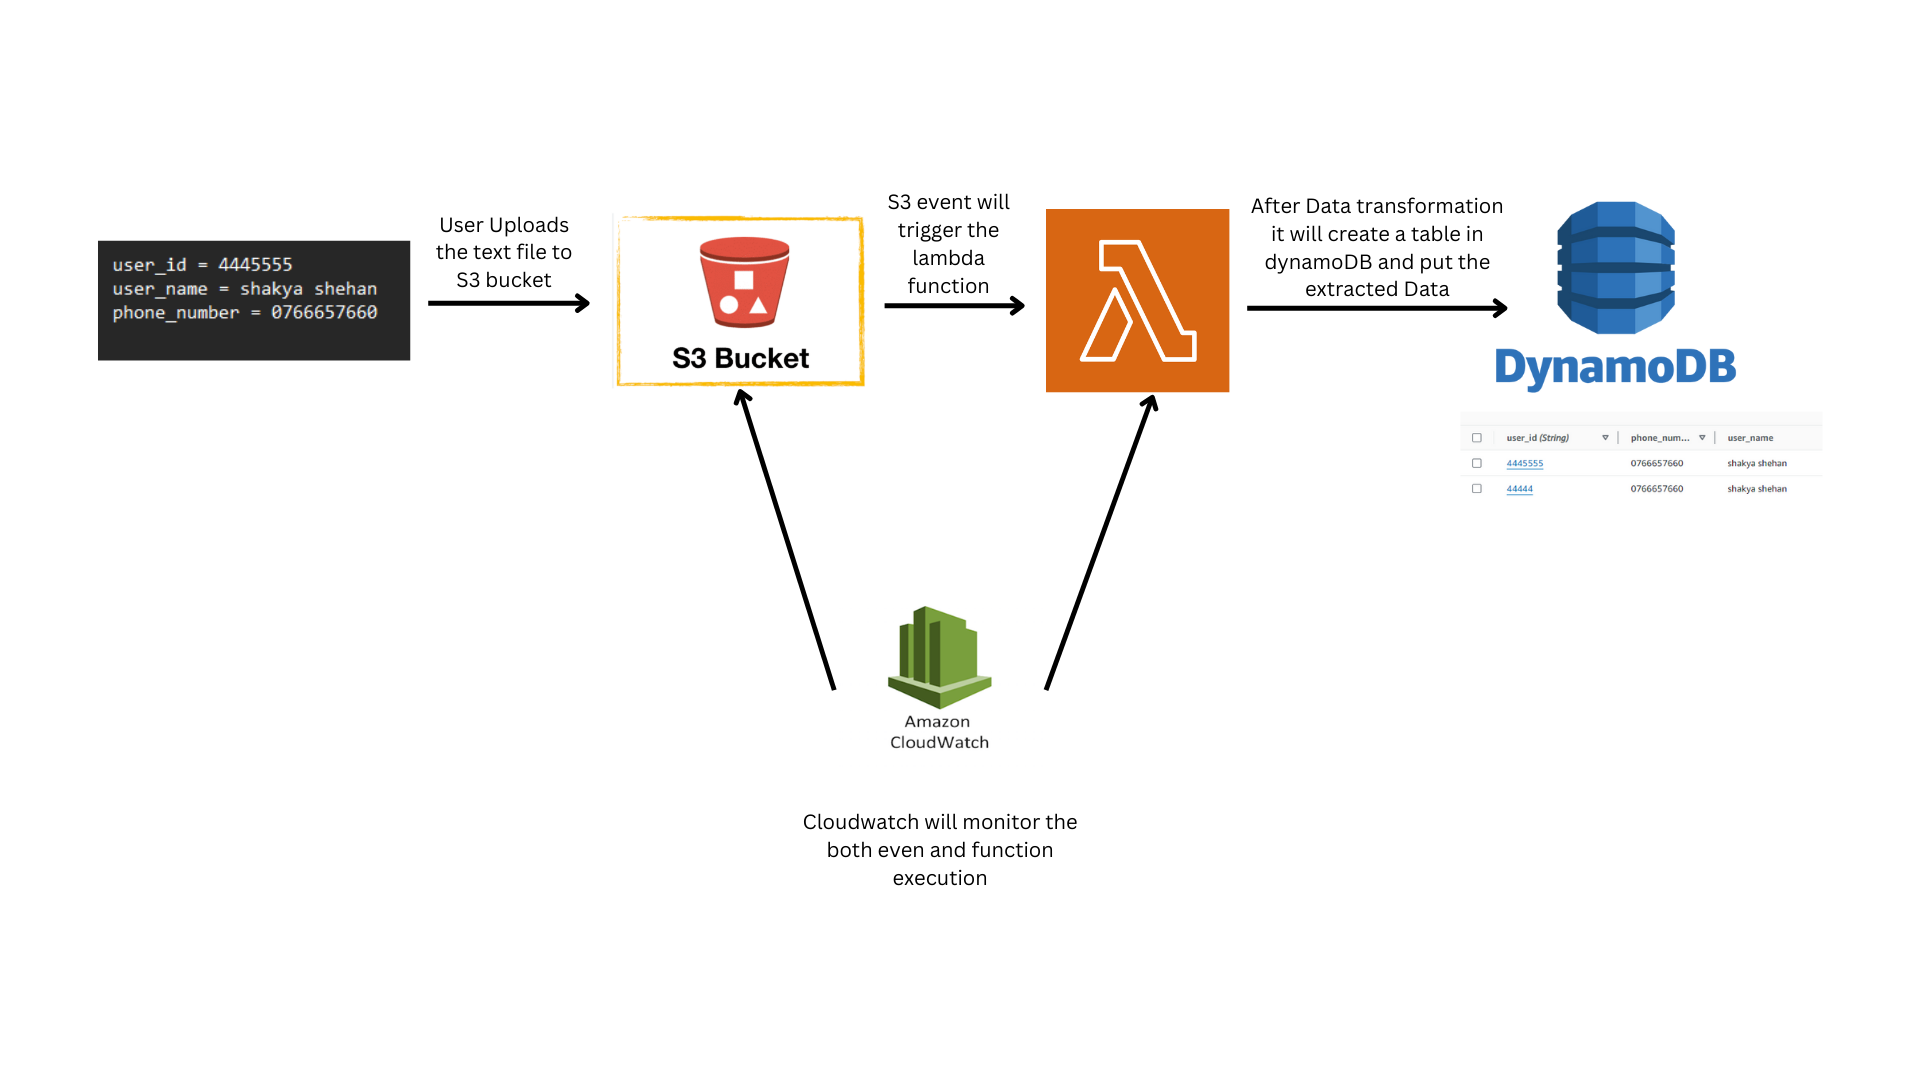
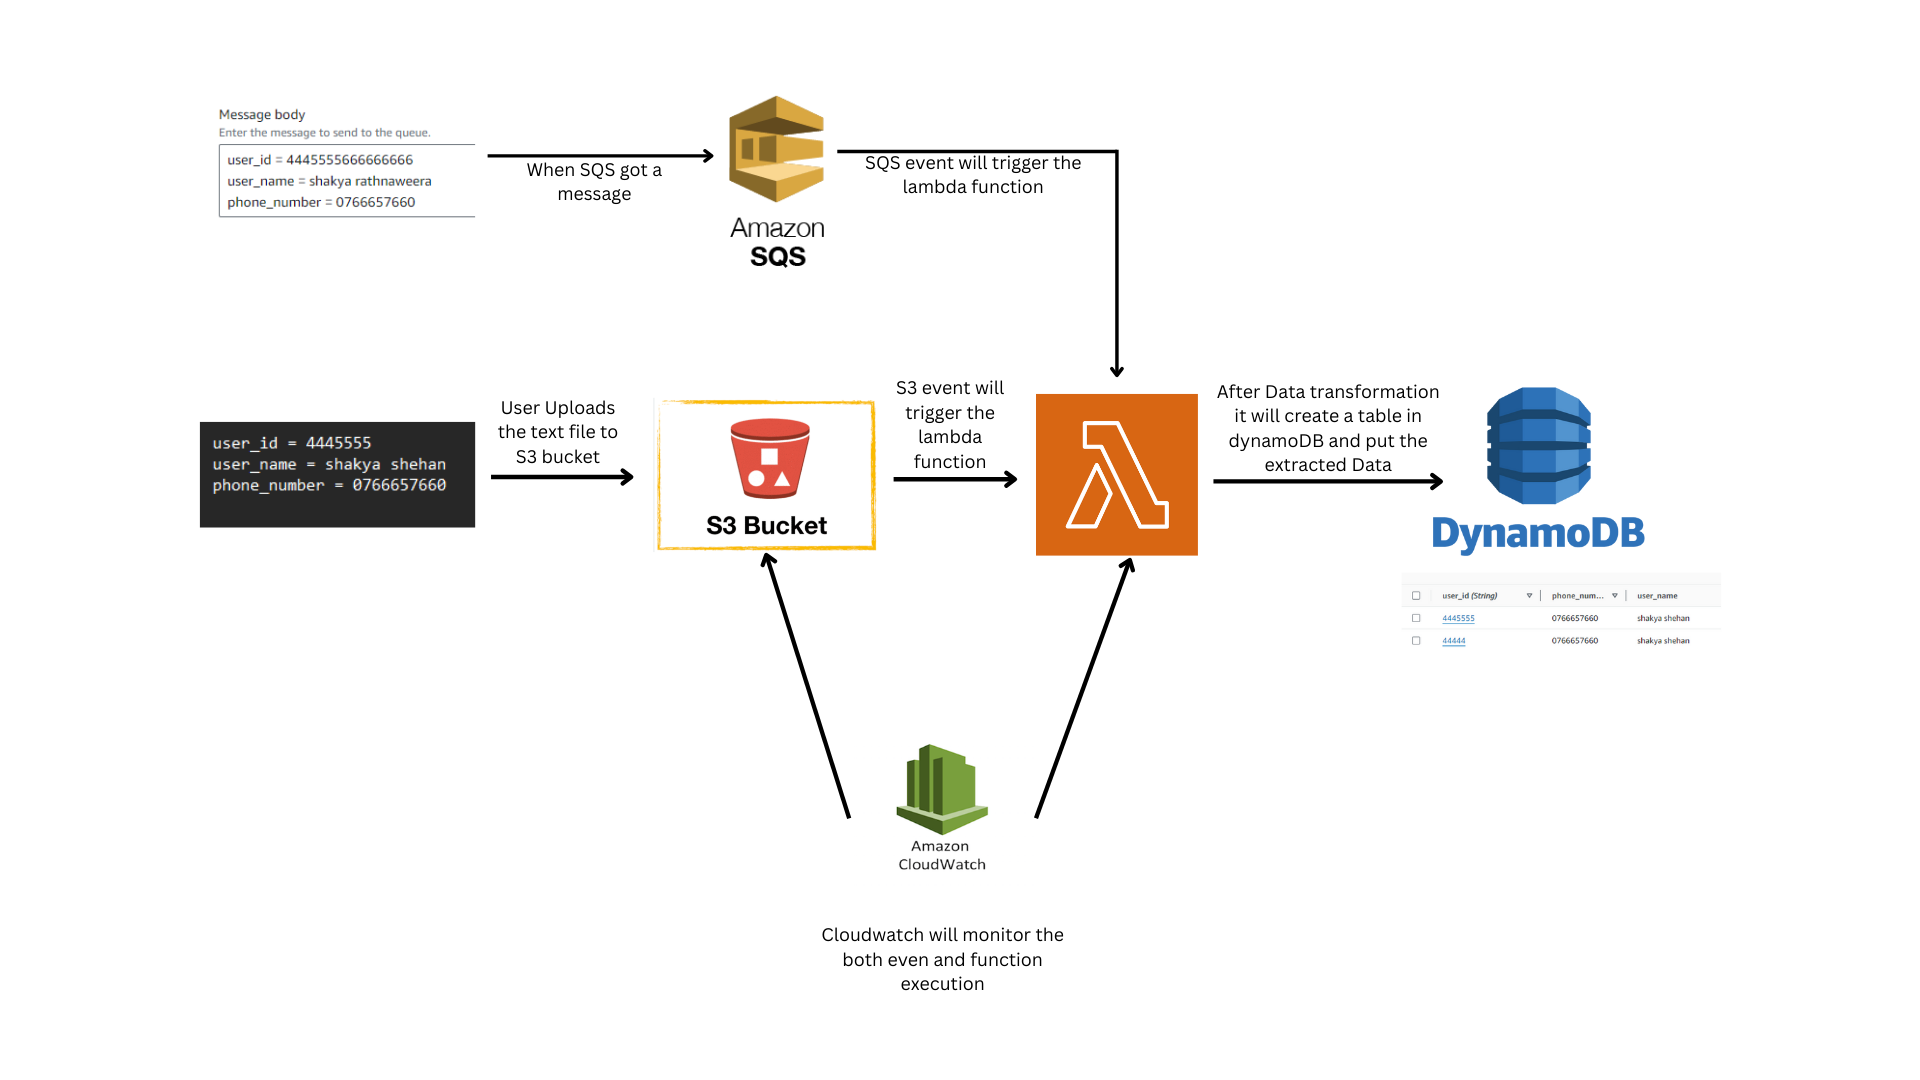
Adding SQS lambda trigger function

diff --git a/user-management/handler.js b/user-management/handler.js
@@ -33,6 +33,24 @@ module.exports.process = async (event) => {
         console.error(error);
       }
     }
+    else if (record.eventSource === 'aws:sqs') {
+      const messageBody = record.body;
+      const userData = parseUserData(messageBody);
+
+      if (userData) {
+        const dbParams = {
+          TableName: 'user-data-table',
+          Item: userData
+        };
+
+        try {
+          await dynamoDb.put(dbParams).promise();
+          console.log('Data saved to DynamoDB:', userData);
+        } catch (error) {
+          console.error('Error saving data to DynamoDB:', error);
+        }
+      }
+    }
   });
 
   await Promise.all(records);
